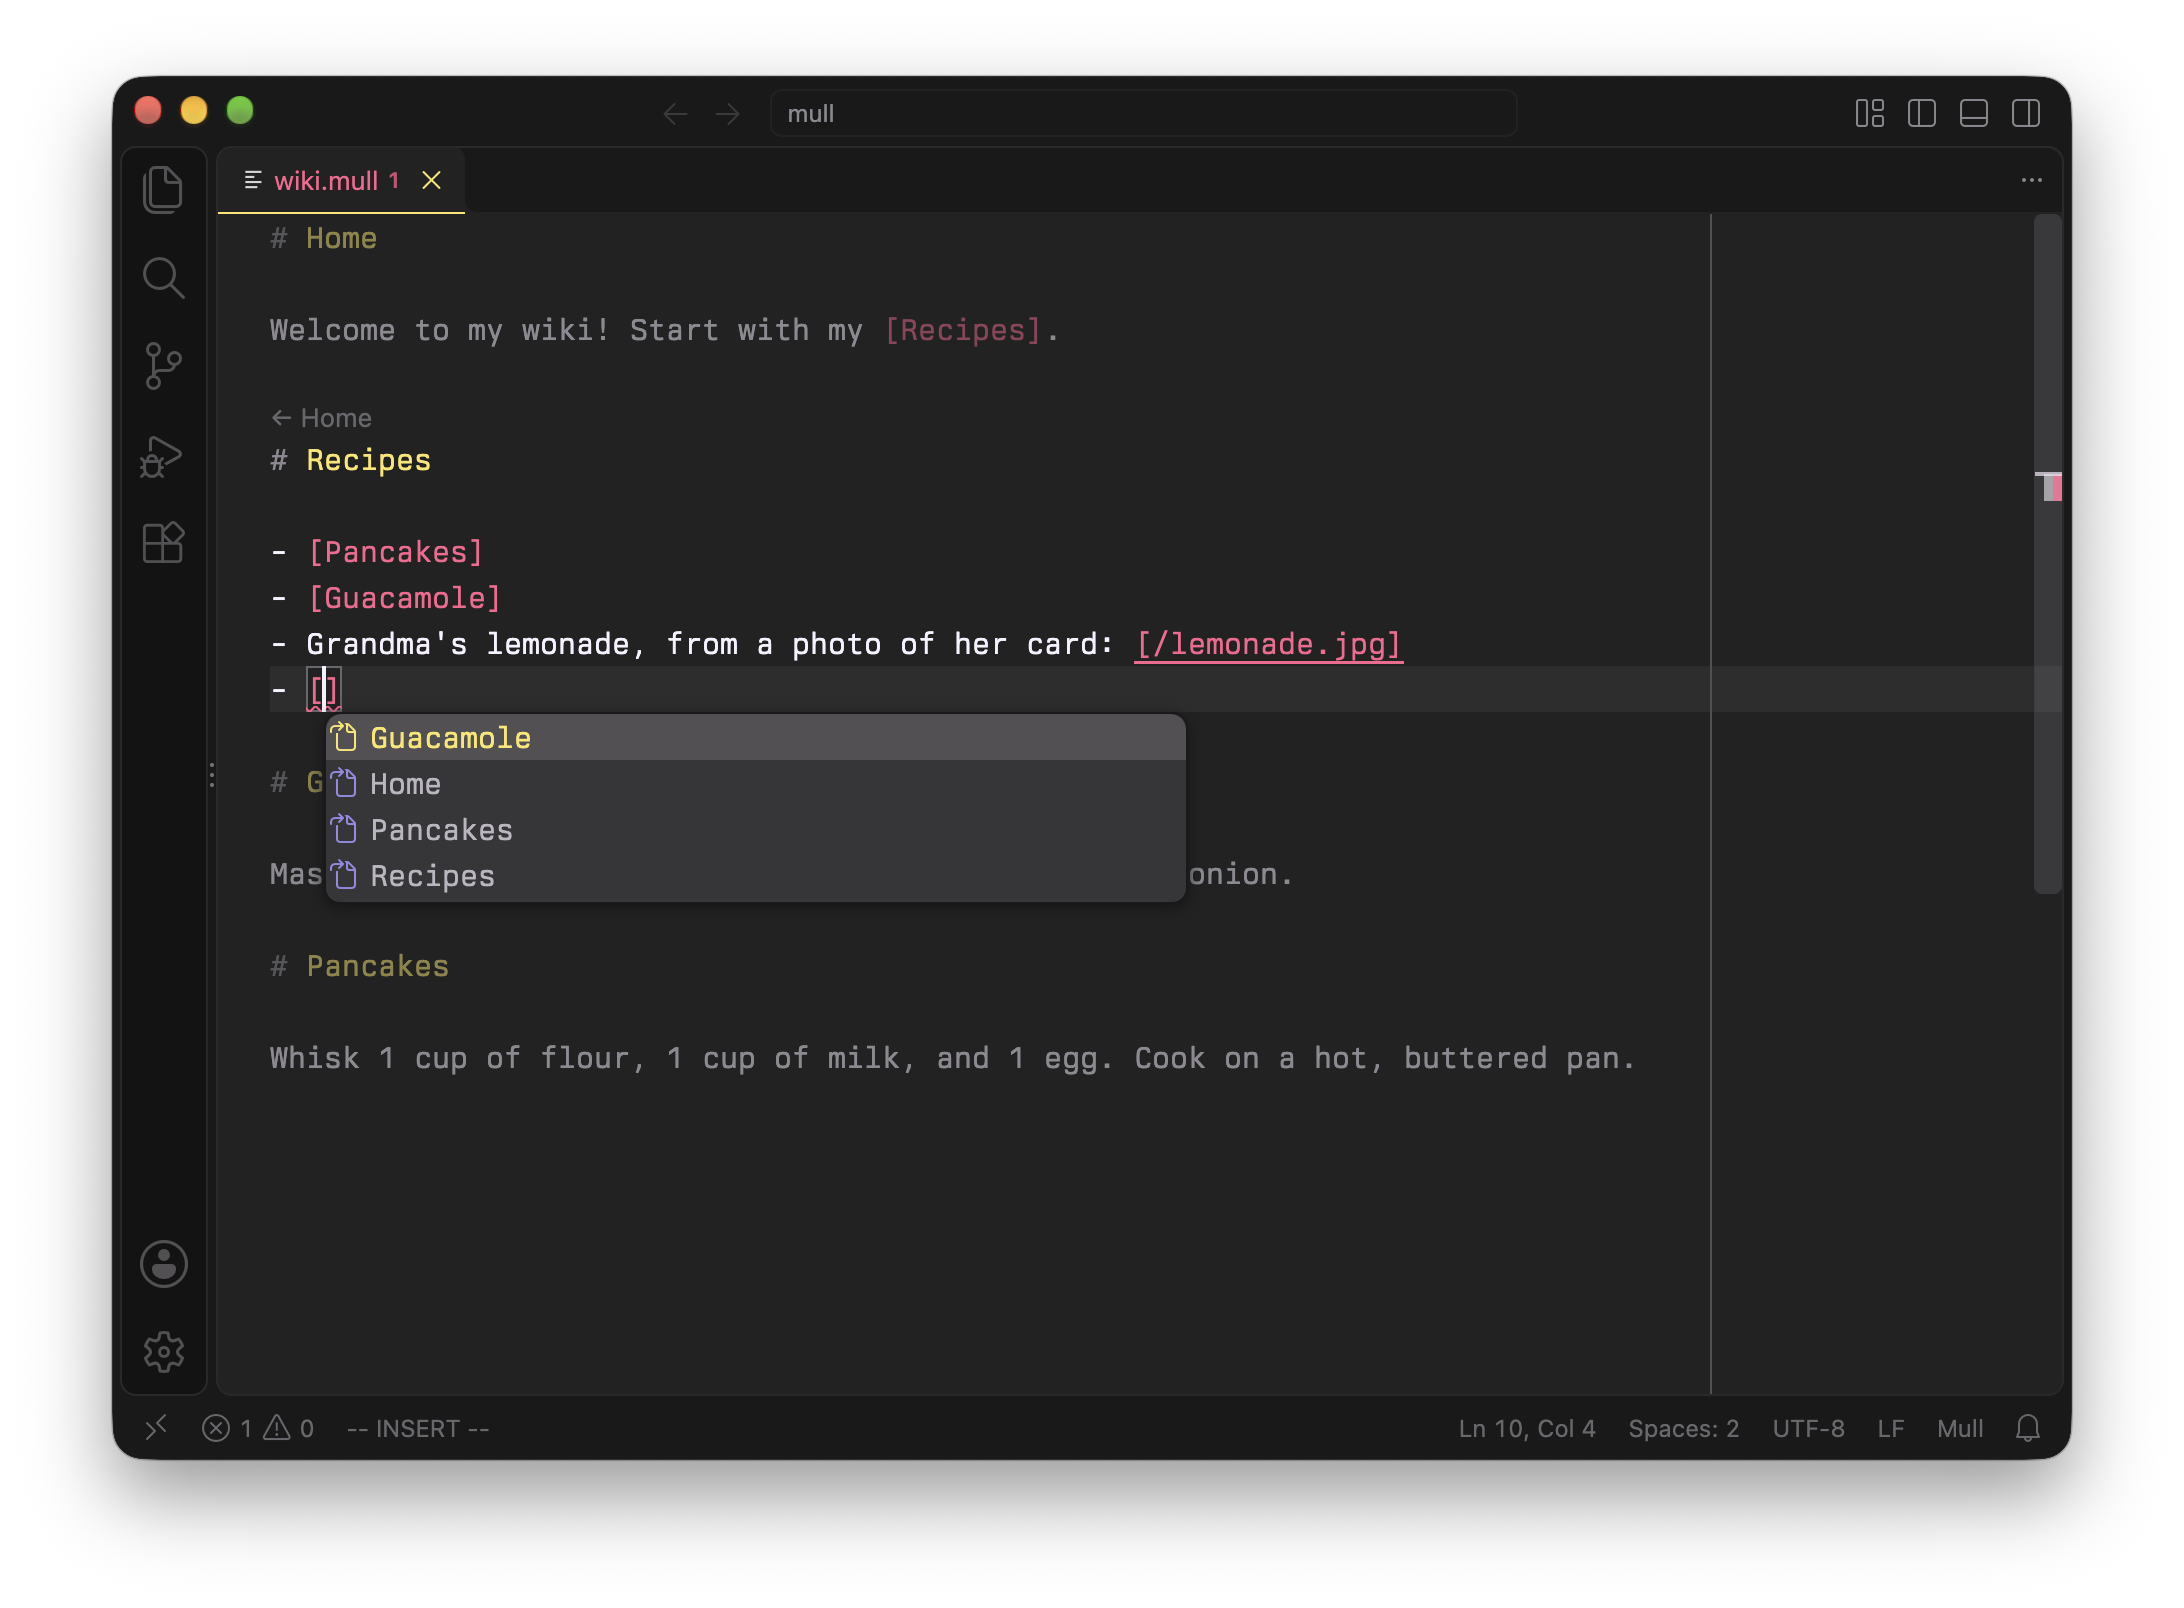
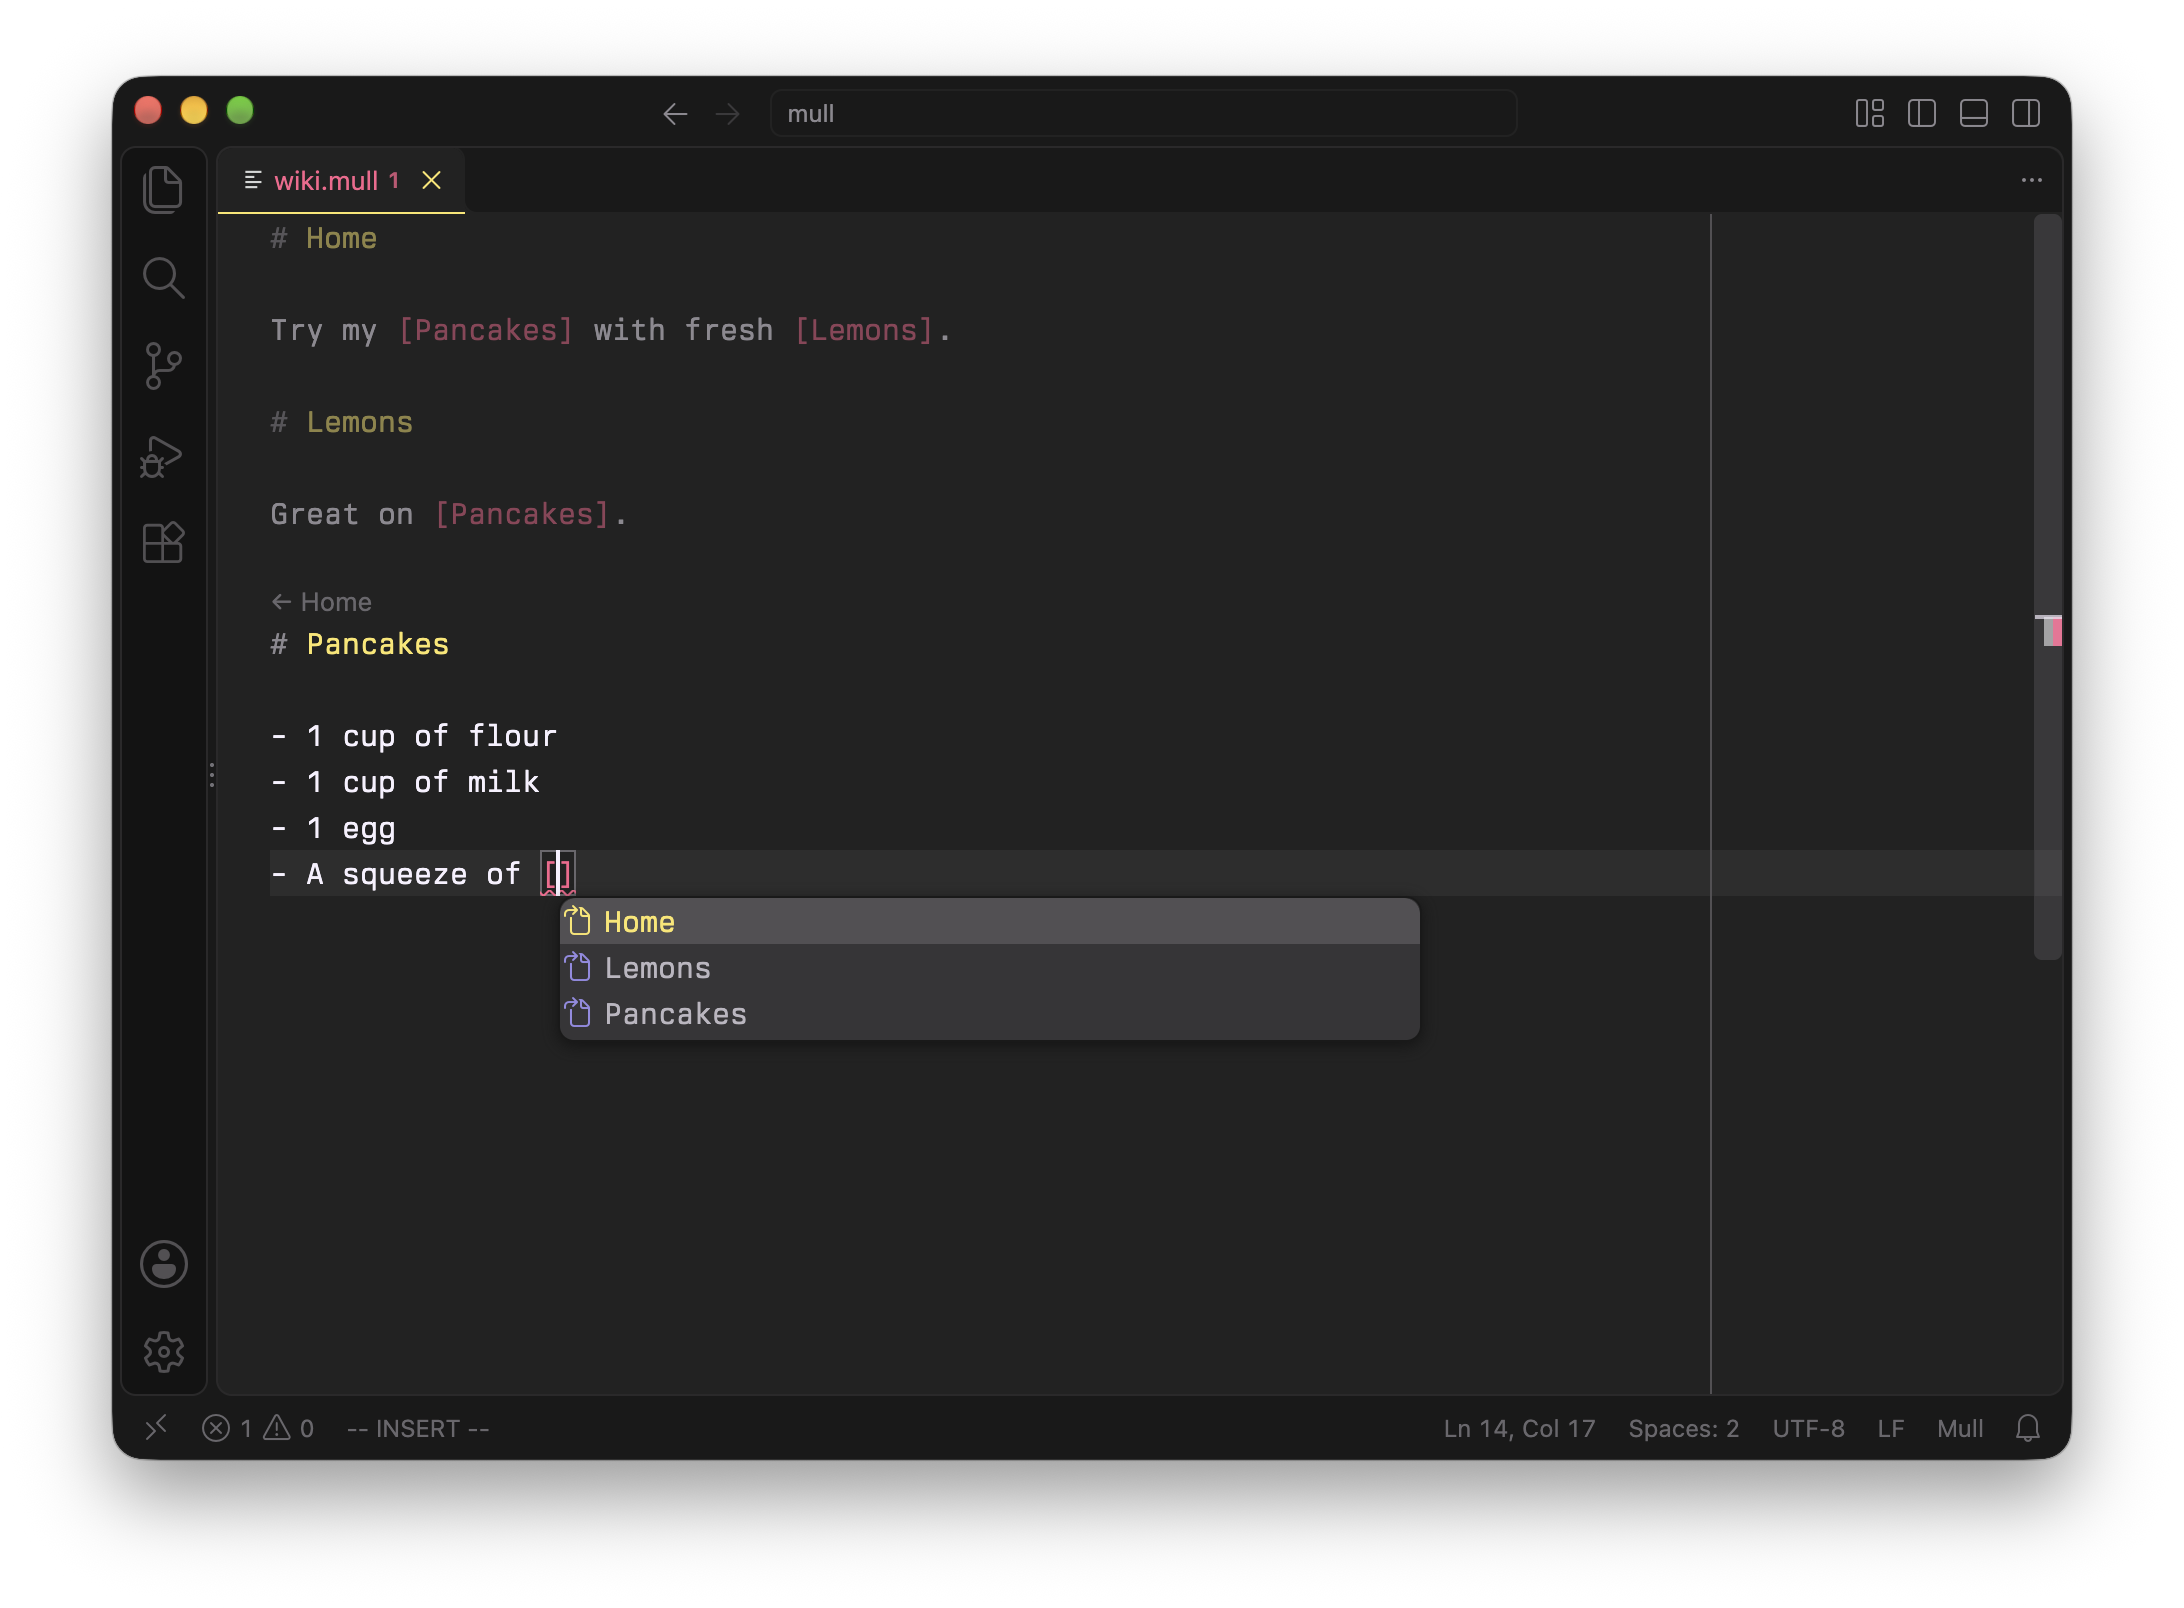
Use short lines in the README example wiki (#245)
* Use short lines in the README example wiki, and expand the installation instructions

* Shorten the README example wiki to 3 pages

* Update the autocomplete screenshot for the new example wiki

diff --git a/README.md b/README.md
@@ -10,24 +10,23 @@ Since Mull runs in Visual Studio Code or Cursor, you can use it with your favori
 
 ## A quick tour
 
-A Mull *wiki* is a text file with a `.mull` extension. It contains *pages* which link to each other, all in the same file. Here's a small wiki with 4 pages:
+A Mull *wiki* is a text file with a `.mull` extension. It contains *pages* which link to each other, all in the same file. Here's a small wiki with 3 pages:
 
 ```md
 # Home
 
-Welcome to my wiki! Two of my favorite recipes are [Pancakes] and [Lemonade].
-
-# Lemonade
-
-Stir 1 cup of sugar into 1 cup of hot water, then add the juice of 6 [Lemons] and 4 cups of cold water.
+Try my [Pancakes] with fresh [Lemons].
 
 # Lemons
 
-Roll them on the counter before cutting them to get more juice. I use them for [Lemonade] and on [Pancakes].
+Great on [Pancakes].
 
 # Pancakes
 
-Whisk 1 cup of flour, 1 cup of milk, and 1 egg. Cook on a hot, buttered pan, and serve with a squeeze of [Lemons].
+- 1 cup of flour
+- 1 cup of milk
+- 1 egg
+- A squeeze of [Lemons]
 ```
 
 Each page starts with a `# Title`, followed by the contents of the page on subsequent lines, up to the next page or the end of the file.
@@ -109,7 +108,7 @@ Options:
 
 ## Installation instructions
 
-To use Mull, you must install the binary and optionally the Visual Studio Code / Cursor extension.
+To use Mull, you must install the binary and optionally the Visual Studio Code / Cursor extension. The binary does all the work and can be used by itself from the command line. The IDE extensions use the binary to provide a rich wiki editing experience.
 
 ### Installation on macOS or Linux (AArch64 or x86-64)
 
@@ -156,7 +155,9 @@ You can run that command with `--force` to update an existing installation.
 
 ### Installing the Visual Studio Code / Cursor extension
 
-Download the `mull.vsix` file from the latest [release](https://github.com/stepchowfun/mull/releases) and install it via the "Install from VSIX..." option in the `...` menu at the top of the Extensions view of the Primary Side Bar.
+First, make sure you have [Visual Studio Code](https://code.visualstudio.com/) or [Cursor](https://cursor.com/) installed.
+
+To install the Mull extension, download the `mull.vsix` file from the [latest release](https://github.com/stepchowfun/mull/releases/latest) and install it via the "Install from VSIX..." option in the `...` menu at the top of the Extensions view of the Primary Side Bar.
 
 Note that the macOS / Linux installation script will install the extension automatically, so you can skip this section if you use that installation method.
 
